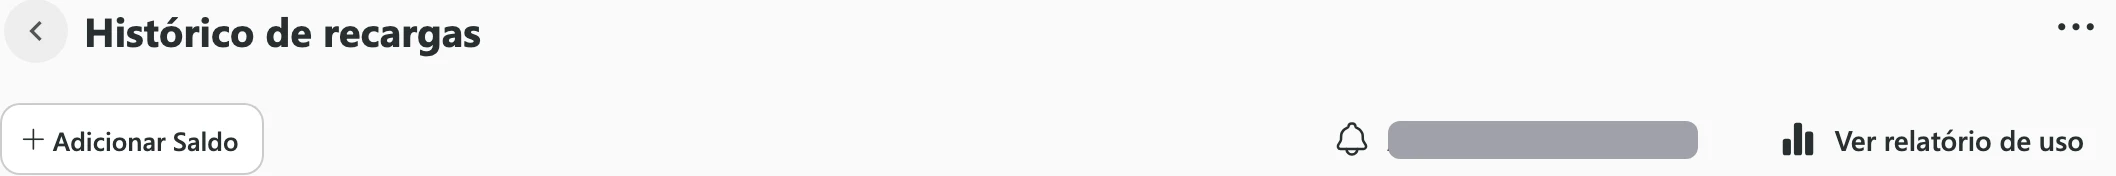
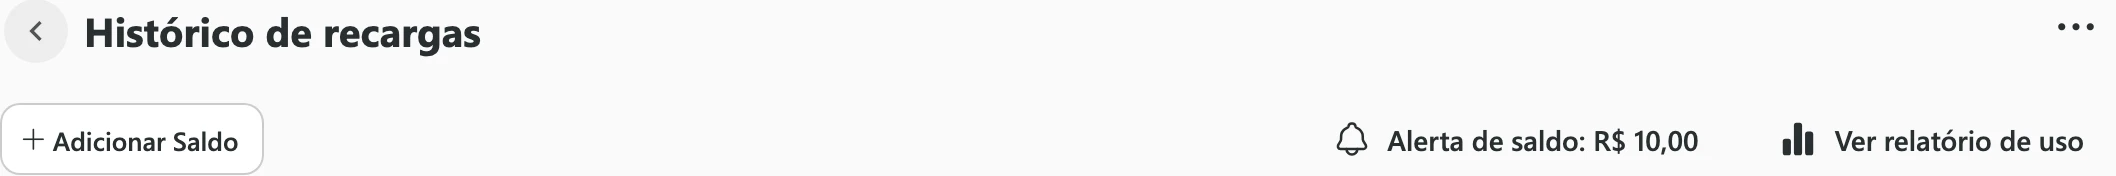
fix(ajuda): correções do conselho (rodada 1) na seção Assinatura
- Botões condicionais: Gerar boleto agora / Pagar agora e Tentar pagar
  novamente só "se aparecer", senão suporte; Mudar plano e Cancelar com
  assinatura PRO não cancelada (inclusive Expirado) e exceção de parceiro.
- Restrições depois da carência limitadas a canais de WhatsApp e Instagram;
  carência sem prometer "funciona normalmente"; exceção de parceiro na
  saída dos canais por QR Code (só na camada llm/).
- Cancelamento encerra as mensalidades que aguardam pagamento; menu "..."
  da fatura condicional e Ver ao passar o mouse; Ver Boleto × Visualizar boleto.
- Irmã LLM reescrita só com fatos (sem diretivas de redação); FAQs com
  links; "proprietário ou alguém com a permissão Assinatura".
- cancelar.mdx sem o Info repetido; regra dos 5/3 dias em faturas com link.
- Prints sem tarja fora do preço do plano; print novo da Carteira;
  mínimo de recarga e padrão do alerta citados.
- Golden: negativo trocado; grupo Administração na posição do esboço.

Origem: web:src/pages/settings/billing/BillingV2.tsx, v2/UpcomingInvoiceAlert.tsx,
v2/retryPayment.helper.ts, AddBalanceModal/index.tsx,
api-v0:server/controllers/NewPaymentController.js,
api-v0:server/services/WorkspacePlatformService.js,
api:src/modules/wallet-alerts/wallet-alerts.helper.ts

Changed region(s): [[0.655, 0.6818, 0.811, 0.9091]]

diff --git a/llm/assinatura/visao-geral.md b/llm/assinatura/visao-geral.md
@@ -21,159 +21,156 @@ codigo:
   - api-v0:server/routes/NewPaymentRoutes.js
   - api-v0:server/modules/scheduler/NewPaymentScheduler.js
   - api-v0:server/modules/scheduler/deleteChannelsScheduler.js
+  - api-v0:server/services/WorkspacePlatformService.js
   - api:src/modules/wallet-alerts/**
 verificado_em: 2026-11-26
 ---
 
-Detalhes de referência das páginas humanas da seção Assinatura ([Assinatura: como o plano é montado](/docs/assinatura/visao-geral), [Assinar ou mudar o plano](/docs/assinatura/assinar-ou-mudar-plano), [Adicionar saldo e créditos de SMS](/docs/assinatura/adicionar-saldo), [Configurar o alerta de saldo](/docs/assinatura/alerta-de-saldo), [Faturas, boletos e nota fiscal](/docs/assinatura/faturas), [Cancelar a assinatura](/docs/assinatura/cancelar) e [Minha assinatura venceu ou o pagamento falhou](/docs/assinatura/assinatura-vencida)).
+
+Detalhes de referência da seção Assinatura. Páginas para pessoas: [Assinatura: como o plano é montado](/docs/assinatura/visao-geral), [Assinar ou mudar o plano](/docs/assinatura/assinar-ou-mudar-plano), [Adicionar saldo e créditos de SMS](/docs/assinatura/adicionar-saldo), [Configurar o alerta de saldo](/docs/assinatura/alerta-de-saldo), [Faturas, boletos e nota fiscal](/docs/assinatura/faturas), [Cancelar a assinatura](/docs/assinatura/cancelar) e [Minha assinatura venceu ou o pagamento falhou](/docs/assinatura/assinatura-vencida).
 
 ## Quem pode acessar e alterar
 
-- **Permissão:** **Assinatura** ("Contratar e alterar planos de assinatura."), na seção **Gerenciamento do Ambiente**. Sem ela, o item **Assinatura** some do menu e abrir a rota redireciona para **Configurações**.
+- **Permissão:** **Assinatura** ("Contratar e alterar planos de assinatura."), na seção **Gerenciamento do Ambiente** das permissões. Sem ela, o item **Assinatura** some do menu e o endereço da página volta para **Configurações**.
 - **Proprietário e papéis padrão:** o proprietário do workspace sempre tem acesso. O papel padrão **Administrador** já vem com a permissão **Assinatura**; **Supervisor** e **Atendente** não.
 - **Busca global:** atalho **Ir para Assinatura**.
-- **Inspeção de parceiro:** parceiro inspecionando um workspace só vê **Assinatura** no modo de inspeção avançado.
-- **Workspaces de parceiro com plano bloqueado:** em alguns workspaces de parceiros, a mudança de plano é feita pelo parceiro e os botões **Mudar plano** / **Assinar um plano** e os valores não aparecem.
+- **Inspeção de parceiro:** o parceiro que inspeciona um workspace só vê **Assinatura** no modo de inspeção avançado.
+- **Plano gerenciado pelo parceiro:** em alguns workspaces de clientes de parceiros, o plano é gerenciado pelo parceiro: os botões **Mudar plano**, **Assinar um plano** e **Cancelar assinatura** e os valores não aparecem.
 
 ## Unidades do plano, mínimos e cobrança
 
-- Não existem planos com nome fixo. A assinatura é montada por unidades na tela **Checkout** / **Alterar Plano**:
+- Não existem planos com nome fixo. A assinatura é montada por unidades na tela **Checkout** (teste grátis ou assinatura cancelada) ou **Alterar Plano** (assinatura **PRO**):
   - **Membros:** licenças de membro ("por membro por mês").
   - **WhatsApp:** linhas de WhatsApp ("por linha por mês"), somando WhatsApp oficial e WhatsApp por QR Code (veja [Canais: conectar e gerenciar](/docs/canais/visao-geral)).
   - **Instagram Direct:** canais de Instagram ("por canal por mês").
-  - **SMS:** créditos de SMS mensais.
-  - **Ligações WhatsApp:** plano opcional de minutos, com botão **Remover plano**.
-- Outros canais (Telegram, e-mail, widget, Facebook, canal customizado) não entram na cobrança do plano.
+  - **SMS:** SMS mensais.
+  - **Ligações WhatsApp:** plano opcional de minutos, com a opção **Remover plano**.
+- Telegram, e-mail, widget, Facebook e canal customizado não entram na cobrança do plano.
 - Na página **Assinatura**, o plano aparece como **PRO** (assinatura paga) ou **Trial** (teste grátis).
-- **Periodicidade:** a contratação pela tela é **mensal** (**Total por mês**). Para plano anual, orientar falar com o comercial. Assinaturas antigas anuais podem aparecer na tela como **Fatura anual**.
-- **Preços:** não informar valores fixos; os preços vêm do servidor e podem variar ou ter cupom. Sempre direcionar para `https://www.kinbox.com.br/pricing/`.
-- **Mínimos ao contratar ou reduzir:** licenças de membro não podem ficar abaixo do total de membros ativos; **WhatsApp** e **Instagram Direct** não podem ficar abaixo dos canais já conectados.
-- **Saldo recorrente:** alguns planos podem exibir "Saldo recorrente de \<valor\> por mês", mas não há cartão para contratá-lo no checkout e hoje esse valor não é creditado automaticamente na carteira todo mês; não prometer recarga mensal automática.
+- **Periodicidade:** a contratação pela tela é mensal (**Total por mês**). Para plano anual, o caminho é falar com o comercial. Assinaturas anuais antigas aparecem com **Fatura anual**.
+- **Preços:** variam e podem ter desconto por cupom. A tabela atual fica na [página de planos da Kinbox](https://www.kinbox.com.br/pricing/).
+- **Mínimos:** as licenças não podem ficar abaixo do número de membros ativos, e **WhatsApp** e **Instagram Direct** não podem ficar abaixo dos canais já conectados.
+- **Saldo recorrente:** o plano pode mostrar a linha "Saldo recorrente de \<valor\> por mês". Esse item não é contratado pela tela. A recarga da carteira é feita em **Adicionar saldo**.
 
 ## Teste grátis
 
-- **Duração e recursos:** **7 dias** corridos, sem cartão de crédito, com **10 licenças** de membro e **1 linha de WhatsApp**.
-- **Restrição de Instagram:** não permite adicionar canais de Instagram — erro `"Você não pode adicionar canais de Instagram em plano trial"`.
-- **Visual na tela:** título **Trial** com selo `"<tempo> restantes"` ou **Expirado**; seção **Faturas** oculta; botão **Assinar um plano**. Na tela de escolha de workspace, exibe o selo **Teste grátis**.
-- **Carência e contagem:** após os 7 dias, vale a mesma **carência de 3 dias** da assinatura paga. A página **Assinatura** conta até **Expira em**, enquanto a faixa no topo conta até **Expira em** + 3 dias (por isso, no 7º dia a página pode mostrar horas restantes enquanto a faixa mostra 3 dias).
+- **Duração e recursos:** 7 dias, sem cartão de crédito, com 10 licenças de membro e 1 linha de WhatsApp.
+- **Instagram:** não dá para adicionar canais de Instagram no teste grátis. Mensagem: "Você não pode adicionar canais de Instagram em plano trial".
+- **Na tela:** título **Trial** com o selo "\<tempo\> restantes" ou **Expirado**; a seção **Faturas** não aparece; o botão é **Assinar um plano**. Na escolha de workspace, o workspace em teste mostra o selo **Teste grátis**.
+- **Carência:** depois dos 7 dias valem os mesmos 3 dias de carência da assinatura paga. A página **Assinatura** conta o tempo até **Expira em**; a faixa no topo do app conta até **Expira em** + 3 dias. Por isso, no último dia do teste, a página pode mostrar horas restantes enquanto a faixa mostra 3 dias.
 
-## Status, avisos, carência e linha do tempo de bloqueio
+## Status, avisos e carência
 
-- **Status do cartão do plano:** **Ativo**, **Expirado** (passou da data em **Expira em**) e **Cancelado**.
-- **Aviso no topo da página Assinatura (PRO ativa com vencimento futuro):**
-  - Cartão de crédito: `"Sua assinatura será renovada automaticamente em <data>, daqui a <tempo>."`
-  - Boleto ou Pix: `"Sua assinatura vence em <data>, daqui a <tempo>."`
-- **Carência de 3 dias:** depois de **Expira em** (tanto no teste grátis quanto no PRO), o navegador e o servidor só bloqueiam após 3 dias.
+- **Status do plano:** **Ativo**, **Expirado** (passou da data em **Expira em**) e **Cancelado**.
+- **Aviso no topo da página Assinatura** (assinatura **PRO** ativa, com vencimento futuro):
+  - cartão de crédito: "Sua assinatura será renovada automaticamente em \<data\>, daqui a \<tempo\>.";
+  - boleto ou Pix: "Sua assinatura vence em \<data\>, daqui a \<tempo\>.".
+- **Carência de 3 dias:** depois de **Expira em**, no teste grátis e na assinatura **PRO**, as restrições de assinatura vencida só começam 3 dias depois. Isso vale também para assinatura cancelada: o que conta é a data em **Expira em**.
 
 ### Faixas no topo do app
 
-O botão da faixa só aparece fora do celular e para quem tem a permissão **Assinatura**.
+O botão da faixa só aparece no computador e para quem tem a permissão **Assinatura** (ou é o proprietário).
 
-| Quando aparece | Texto exato | Botão |
+| Quando aparece | Texto | Botão |
 | --- | --- | --- |
-| Teste grátis, do último dia até o fim da carência | `"Faltam N dias para acabar sua degustação."` | **Assine agora!** |
-| PRO vencida, dentro da carência | `"Sua assinatura expirou. Você tem mais N dias de acesso."` | **Ver fatura** |
-| Depois da carência (teste grátis ou PRO) | `"Sua assinatura expirou. Por favor, selecione um plano nas configurações de assinatura."` | **Ver Plano** |
+| Teste grátis, do último dia até o fim da carência | "Faltam N dias para acabar sua degustação." | **Assine agora!** |
+| Assinatura **PRO** vencida, dentro da carência | "Sua assinatura expirou. Você tem mais N dias de acesso." | **Ver fatura** |
+| Depois da carência (teste grátis ou **PRO**) | "Sua assinatura expirou. Por favor, selecione um plano nas configurações de assinatura." | **Ver Plano** |
 
-A faixa de carência de assinatura PRO fica oculta para membros que têm a restrição que esconde a faixa da carência.
+A faixa da carência da assinatura **PRO** não aparece para membros com a restrição que esconde esse aviso.
 
-### Linha do tempo após o vencimento
+### Linha do tempo depois do vencimento
 
-| Momento | Comportamento |
+| Momento | O que acontece |
 | --- | --- |
-| 5 dias antes de **Expira em** | Fatura gerada automaticamente; e-mail `"Kinbox - Fatura da assinatura"` para os **E-mails de cobrança**; cobrança automática no cartão. |
-| Em **Expira em** sem pagamento | Status muda para **Expirado** na página **Assinatura**; começa a carência. |
-| Até 3 dias depois de **Expira em** | Carência: uso normal do workspace. |
-| Depois de 3 dias de **Expira em** | Campo de mensagem some da **Caixa de entrada**; convidar membro ou adicionar canal de WhatsApp/Instagram falha com `"Assinatura expirada"`. |
-| **7 dias depois de Expira em** | Canais de **WhatsApp por QR Code** (**Express** e **Clássica**) de workspaces que não são de parceiro são desconectados e desativados/excluídos da lista (vale para teste grátis e PRO). O WhatsApp oficial não entra nessa rotina. |
+| 5 dias antes de **Expira em** | A fatura da mensalidade é gerada e o e-mail "Kinbox - Fatura da assinatura" vai para os **E-mails de cobrança**. No cartão, a cobrança é automática. |
+| Em **Expira em**, sem pagamento | O status passa a **Expirado** na página **Assinatura**. Começa a carência. |
+| Até 3 dias depois de **Expira em** | As restrições de assinatura vencida ainda não começam. |
+| Mais de 3 dias depois de **Expira em** | O campo de mensagem some das conversas na **Caixa de entrada**. Convidar membro ou criar canal de WhatsApp ou Instagram mostra "Assinatura expirada". |
+| 7 dias depois de **Expira em** | Os canais de **WhatsApp por QR Code** (**Express** e **Clássica**) são desconectados e saem da lista de canais. Vale para teste grátis e **PRO**, exceto em workspaces de parceiros. O WhatsApp oficial não entra nessa regra. |
 
-- Para voltar a usar um número excluído após regularizar a assinatura, é preciso conectar o canal novamente (veja [Conectar o WhatsApp pelo QR Code](/docs/canais/conectar-whatsapp-app)). Não afirmar se as conversas antigas voltam ou não nesse caso.
-- Não afirmar o que continua funcionando ou para em bots, agentes de IA, campanhas ou recebimento de mensagens quando a assinatura está vencida.
-- **E-mails enviados:** não existe e-mail automático avisando que a assinatura venceu. Os e-mails enviados para os **E-mails de cobrança** são: `"Kinbox - Assinatura realizada com sucesso"`, `"Kinbox - Assinatura atualizada"`, `"Kinbox - Assinatura cancelada"` e `"Kinbox - Fatura da assinatura"`.
+- Para usar de novo um número de WhatsApp por QR Code que saiu da lista, é preciso conectá-lo outra vez (veja [Conectar o WhatsApp pelo QR Code](/docs/canais/conectar-whatsapp-app)).
+- **E-mails:** não há e-mail avisando que a assinatura venceu; o aviso é a faixa no topo do app. Os e-mails que vão para os **E-mails de cobrança** são "Kinbox - Assinatura realizada com sucesso", "Kinbox - Assinatura atualizada", "Kinbox - Assinatura cancelada" e "Kinbox - Fatura da assinatura".
 
 ## Contratar, mudar de plano e forma de pagamento
 
-- **Primeira assinatura (saindo do teste grátis):** muda para **PRO** na hora e gera a primeira fatura com vencimento no mesmo dia. No cartão, a cobrança ocorre na hora e exibe erro se for recusada.
-- **Aumentar o plano (upgrade):** a diferença proporcional aos dias que faltam até o vencimento (**pro-rata**) é debitada do saldo da carteira.
-  - Aviso na tela: `"Para fazer upgrade de plano será necessário pagar o valor de <valor> de pro-rata. O valor será debitado do seu saldo."`
-  - Sem saldo suficiente, clicar em **Alterar Plano** abre **Adicionar Saldo** com `"Necessário colocar <valor> no seu saldo de pro-rata para realizar a alteração de plano."` e o valor mínimo já preenchido.
-  - Pago o Pix, a tela aplica a mudança sozinha (`"Pagamento confirmado. Aplicando a alteração do plano..."` → `"Pagamento confirmado e plano atualizado"`). Se não conseguir aplicar, exibe `"Saldo adicionado, mas não foi possível aplicar a alteração do plano. Refaça a alteração; o saldo já está na sua carteira."`.
-  - A intenção de mudança pendente vinculada ao Pix de recarga vale por até **3 horas**.
-- **Diminuir o plano (downgrade):** não gera crédito nem devolução; o novo valor entra na próxima fatura mensal.
-- **Efeitos de qualquer mudança:** novas quantidades valem na hora; faturas em aberto do período são canceladas; se faltarem 5 dias ou menos para o vencimento, uma nova fatura é gerada na hora; envia o e-mail `"Kinbox - Assinatura atualizada"`.
-- **Dados de cobrança:** **Nome**, **E-mails de cobrança** (separados por vírgula), **Número de telefone**, **Tipo de pessoa** (**Pessoa física** / **Pessoa jurídica**), **CPF** ou **CNPJ**, e **Endereço** (**CEP**, **Rua**, **Número**, **Bairro**, **Estado** — com opção **Estrangeiro** —, **Cidade**, **País**). Só são editáveis no fluxo de checkout.
-- **Trocar forma de pagamento ou cartão:** não existe tela própria só para trocar a forma de pagamento ou os dados de cobrança sem alterar o plano.
-  - Se uma fatura no cartão foi recusada, orientar **Tentar pagar novamente** escolhendo outro cartão (aprovado, passa a ser o cartão das próximas cobranças).
-  - Para trocar a forma de pagamento ou o cartão fora de uma falha de cobrança, orientar falar com o suporte. Não recomendar refazer **Mudar plano** com as mesmas quantidades porque isso cancela a fatura em aberto do período.
+- **Botões:** **Assinar um plano** aparece no teste grátis e com a assinatura cancelada. **Mudar plano** e **Cancelar assinatura** aparecem com a assinatura **PRO** não cancelada, inclusive quando o selo está **Expirado**. Em workspaces com plano gerenciado pelo parceiro, nenhum desses botões aparece.
+- **Primeira assinatura (saindo do teste grátis):** o plano passa para **PRO** na hora e a primeira fatura sai com vencimento no mesmo dia. No cartão, a cobrança é feita na hora e, se o cartão for recusado, a tela mostra o erro.
+- **Aumentar o plano:** a diferença proporcional aos dias que faltam até o vencimento (**pro-rata** na tela) é debitada do saldo da carteira.
+  - Aviso na tela: "Para fazer upgrade de plano será necessário pagar o valor de \<valor\> de pro-rata. O valor será debitado do seu saldo."
+  - Sem saldo suficiente, **Alterar Plano** abre **Adicionar Saldo** com "Necessário colocar \<valor\> no seu saldo de pro-rata para realizar a alteração de plano." e o valor já preenchido.
+  - Pago o Pix, a mudança é aplicada sozinha: "Pagamento confirmado. Aplicando a alteração do plano..." e depois "Pagamento confirmado e plano atualizado". Se a mudança não puder ser aplicada: "Saldo adicionado, mas não foi possível aplicar a alteração do plano. Refaça a alteração; o saldo já está na sua carteira.".
+  - O pedido de mudança ligado a essa recarga vale por até 3 horas.
+- **Diminuir o plano:** não gera crédito nem devolução. O novo valor vale a partir da próxima fatura.
+- **Qualquer mudança de plano:** as novas quantidades valem na hora; as mensalidades que aguardam pagamento são canceladas; se faltarem 5 dias ou menos para o vencimento, sai uma fatura nova na hora; vai o e-mail "Kinbox - Assinatura atualizada".
+- **Dados de cobrança:** **Nome**, **E-mails de cobrança** (separados por vírgula), **Número de telefone**, **Tipo de pessoa** (**Pessoa física** ou **Pessoa jurídica**), **CPF** ou **CNPJ** e **Endereço** (**CEP**, **Rua**, **Número**, **Bairro**, **Estado** — com a opção **Estrangeiro** —, **Cidade** e **País**). São preenchidos no painel **Dados de cobrança**, dentro da contratação.
+- **Trocar a forma de pagamento ou o cartão:** não há uma tela só para isso.
+  - Cartão recusado: se a opção **Tentar pagar novamente** aparecer na fatura, dá para escolher outro cartão; aprovado, ele passa a ser o cartão das próximas cobranças.
+  - Nos outros casos (trocar de boleto para cartão, trocar o cartão sem falha, mudar os dados de cobrança), o caminho é falar com o suporte.
 
-## Mensagens de erro exatas
+## Mensagens de erro
 
-| Mensagem | Quando ocorre |
+| Mensagem | Quando aparece |
 | --- | --- |
-| `"Assinatura expirada"` | Convidar membro ou criar canal de WhatsApp/Instagram depois da carência de 3 dias. |
-| `"Número limite de operadores atingido"` | Adicionar membro acima das licenças contratadas ou reduzir licenças abaixo dos membros ativos (o servidor usa "operadores" no erro, embora a tela use "licenças de membro"). |
-| `"Você precisa remover canais de Whatsapp para prosseguir com a contratação"` | Tentar contratar/reduzir abaixo dos canais de WhatsApp conectados ou adicionar canal acima do plano. |
-| `"Você precisa remover canais de Instagram para prosseguir com a contratação"` | Tentar contratar/reduzir abaixo dos canais de Instagram conectados ou adicionar canal acima do plano. |
-| `"Você não pode adicionar canais de Instagram em plano trial"` | Tentar conectar Instagram durante o teste grátis. |
-| `"O cupom de desconto não pode mais ser reutilizado"` | Qualquer código de cupom que não vale no momento (inclusive código inválido ou expirado). Cupom esgotado também cai nessa mesma mensagem. |
-| `"Dados de cobrança são obrigatórios"` | Tentativa de contratar sem dados de cobrança cadastrados. |
-| `"Obrigatório"`, `"E-mail inválido: <email>"`, `"CEP não encontrado"` | Validação dos campos de **Dados de cobrança**. |
-| Cartão cadastrado antes de uma mudança do sistema de pagamento | O servidor recusa o cartão antigo e pede para cadastrá-lo novamente (nunca citar nome de gateway). |
-| Limite de tentativas de contratar | O servidor aceita no máximo **5 tentativas a cada 5 minutos** por IP (retorna erro de limite de requisições). |
+| "Assinatura expirada" | Convidar membro ou criar canal de WhatsApp ou Instagram mais de 3 dias depois de **Expira em**. |
+| "Número limite de operadores atingido" | Convidar membro quando todas as licenças estão em uso, ou contratar menos licenças que os membros ativos. A mensagem diz "operadores", mas se refere às licenças de membro. |
+| "Você precisa remover canais de Whatsapp para prosseguir com a contratação" | Criar canal de WhatsApp acima das linhas do plano, ou contratar menos linhas que os canais conectados. |
+| "Você precisa remover canais de Instagram para prosseguir com a contratação" | O mesmo, para Instagram. |
+| "Você não pode adicionar canais de Instagram em plano trial" | Conectar Instagram no teste grátis. |
+| "O cupom de desconto não pode mais ser reutilizado" | Qualquer código de cupom que não vale no momento, inclusive digitado errado, expirado ou esgotado. |
+| "Dados de cobrança são obrigatórios" | Contratar sem dados de cobrança. |
+| "Obrigatório", "E-mail inválido: \<e-mail\>", "CEP não encontrado" | Campos do painel **Dados de cobrança**. |
+| Cartão recusado por ter sido cadastrado em outro sistema de pagamento | A mensagem pede para cadastrar o cartão de novo. |
+| Muitas tentativas seguidas | Muitas tentativas seguidas de contratar são recusadas por alguns minutos. |
 
-## Faturas, segunda via, nota fiscal e nova tentativa no cartão
+## Faturas
 
-- **Escopo:** a seção **Faturas** lista apenas faturas de mensalidade (as 3 mais recentes na página **Assinatura**; lista completa em **Ver tudo** com abas **Tudo**, **Pago**, **Não pago** e busca por ID). Não aparece no teste grátis.
-- **Status:** **Pago**, **Não pago**, **Falha ao pagar** e **Cancelado**. Quando a assinatura está cancelada, toda fatura não paga aparece como **Cancelado**.
-- **Detalhe da falha:** clicar em **Falha ao pagar** abre a janela com `"Erro retornado ao gerar a cobrança:"` e o motivo, ou `"Não foi possível identificar a mensagem de erro desta cobrança."`.
-- **Ações do menu `...`:** **Ver fatura** (comprovante imprimível em nova aba), **Ver Boleto**, **Visualizar boleto**, **Copiar código do boleto**, **Ver QR code**, **Baixar nota fiscal**, **Tentar pagar novamente**.
-- **Geração e vencimento:** gerada automaticamente **5 dias** antes de **Expira em** para assinaturas **PRO** ativas. Ao pagar, **Expira em** avança 1 mês contado do vencimento anterior (não da data do pagamento).
-- **Vencimento do Pix da mensalidade:** a fatura recorrente no Pix vence **6 dias depois** do vencimento da assinatura. Como os bloqueios começam **3 dias depois** do vencimento, quem paga perto da data de vencimento do Pix fica até 3 dias sem conseguir responder conversas.
-- **Geração antecipada (**Gerar boleto agora** / **Pagar agora**):** disponível apenas para assinatura ativa, boleto ou Pix, e período atual. Mensagens de recusa do servidor:
-  - `"Geração antecipada disponível apenas para assinaturas ativas"`
-  - `"Geração antecipada disponível apenas para boleto e Pix"`
-  - `"Já existe uma fatura em aberto ou paga para este período"`
-- **Nova tentativa no cartão (**Tentar pagar novamente** / **Pagar novamente**):**
-  - A Kinbox não tenta cobrar de novo automaticamente um cartão que falhou.
-  - Só aparece quando a fatura é de mensalidade, está com **Falha ao pagar**, é a mais recente, pertence ao período atual e a assinatura **PRO** está ativa no cartão.
-  - O cartão atual não pode ser excluído dentro dessa janela. Aprovado, o cartão escolhido vira o cartão das próximas cobranças.
-  - Ao enviar: `"Pagamento enviado. A confirmação pode levar alguns instantes."`. A fatura antiga permanece como **Falha ao pagar** no histórico e uma nova fatura entra na lista.
-  - Limite: **5 tentativas a cada 5 minutos** por workspace.
-  - Mensagens de erro: `"Não foi possível tentar o pagamento. Tente novamente em alguns minutos."`, `"Não foi possível processar o pagamento com o cartão informado"`, `"Muitas tentativas de pagamento, tente novamente em alguns minutos"`.
-- **Nota fiscal:** a emissão automática está desligada no sistema. **Baixar nota fiscal** só aparece quando o PDF já existe na fatura. Se não aparecer, orientar falar com o suporte para pedir a nota fiscal (sem prometer prazo nem emissão automática).
+- **Onde:** a seção **Faturas** da página **Assinatura** mostra as 3 mensalidades mais recentes. **Ver tudo** abre a lista completa, com as abas **Tudo**, **Pago** e **Não pago** e a busca por ID. Não aparece no teste grátis. Recargas de saldo ficam no **Histórico de recargas**; compras de SMS, no **Histórico SMS**.
+- **Status:** **Pago**, **Não pago**, **Falha ao pagar** e **Cancelado**. Enquanto a assinatura está cancelada, toda fatura não paga aparece como **Cancelado**.
+- **Erro do cartão:** clicar em **Falha ao pagar** abre a janela com "Erro retornado ao gerar a cobrança:" e o motivo, ou "Não foi possível identificar a mensagem de erro desta cobrança.".
+- **Abrir a fatura:** **Ver** aparece ao passar o mouse na linha da fatura, na página **Assinatura**; na lista de **Faturas**, basta clicar na linha. A fatura abre numa aba nova e serve como comprovante.
+- **Menu ...:** só aparece quando a fatura tem boleto, Pix, nota fiscal ou a opção de nova tentativa. Opções possíveis: **Ver fatura**, **Ver Boleto** (abre o boleto; quando o boleto ainda não foi gerado, a opção é **Visualizar boleto**), **Copiar código do boleto**, **Ver QR code**, **Baixar nota fiscal** e **Tentar pagar novamente**. Fatura paga no cartão e sem nota fiscal não tem esse menu, só **Ver**.
+- **Nota fiscal:** a opção **Baixar nota fiscal** aparece na fatura quando o PDF estiver disponível. Quando não aparecer, fale com o suporte para pedir a nota fiscal.
+- **Geração:** a mensalidade é gerada 5 dias antes de **Expira em**, para assinatura **PRO** ativa. Paga a fatura, **Expira em** avança um mês a partir do vencimento anterior, não da data do pagamento.
+- **Vencimento do Pix da mensalidade:** 6 dias depois do vencimento da assinatura. As restrições de assinatura vencida começam 3 dias depois do vencimento, então pagar o Pix perto da data de vencimento dele pode deixar o workspace alguns dias sem responder conversas.
+- **Gerar boleto agora** / **Pagar agora:** aparecem na seção **Faturas** só quando a assinatura **PRO** está ativa, no boleto ou no Pix, no período atual da assinatura e sem fatura desse período paga ou aguardando pagamento. Respostas possíveis: "Geração antecipada disponível apenas para assinaturas ativas", "Geração antecipada disponível apenas para boleto e Pix", "Já existe uma fatura em aberto ou paga para este período". Se o botão não aparecer e a fatura não estiver na lista, o caminho é falar com o suporte.
+- **Tentar pagar novamente** / **Pagar novamente:**
+  - A Kinbox não cobra de novo sozinha um cartão recusado.
+  - A opção só aparece na mensalidade com **Falha ao pagar** mais recente do período atual, com a assinatura **PRO** ativa no cartão. Se não aparecer, o caminho é falar com o suporte.
+  - Na janela, o cartão atual não pode ser excluído. Aprovado, o cartão escolhido passa a ser o das próximas cobranças.
+  - Ao enviar: "Pagamento enviado. A confirmação pode levar alguns instantes.". A fatura recusada continua na lista como **Falha ao pagar** e a nova entra na lista.
+  - Até 5 tentativas a cada 5 minutos por workspace. Mensagens: "Não foi possível tentar o pagamento. Tente novamente em alguns minutos.", "Não foi possível processar o pagamento com o cartão informado", "Muitas tentativas de pagamento, tente novamente em alguns minutos".
 
-## Carteira: saldo em reais e créditos de SMS
+## Carteira: saldo e créditos de SMS
 
-- **Dois saldos separados:** **Saldo disponível** (reais) e **Créditos de SMS** são comprados à parte, ambos **apenas por Pix**. O saldo da carteira não compra créditos de SMS pela tela (mesmo que o texto de ajuda do **Histórico de recargas** diga o contrário — não repetir essa frase).
-- **Recarga de saldo:** mínimo de **R$ 5** na tela em **Valor a adicionar**. Na janela **Pagar com Pix**, a tela verifica o pagamento a cada **10 segundos** enquanto aberta; ao confirmar, exibe `"Pagamento confirmado. Crédito adicionado."`.
-- **Histórico de recargas:** status **Pago** e **Aguardando pagamento**; permite reabrir o QR Code na linha; exportação em CSV/XLSX no menu **...** → **Exportar**; botão **Ver relatório de uso** (só com permissão de relatórios).
-- **Extrato do saldo:** página de créditos e débitos com filtros **Criado entre** e **Tipo** (**Crédito**/**Débito**). No layout atual, o atalho **Comprar créditos** do copiloto (quando mostra **Seus créditos acabaram**) abre esse extrato, onde não há botão de adicionar saldo.
-- **Créditos de SMS:** pacotes de 1 mil a 1 milhão (sem citar preços). Depois do Pix pago, o pedido fica em `"Aguardando aprovação"` no servidor (**Pago, aguardando liberação** no **Histórico SMS**) até a transferência dos créditos, o que pode levar até **1 dia útil** (para liberação imediata ou problema, orientar falar com o suporte).
-  - Status no **Histórico SMS:** **Pago**, **Pago, aguardando liberação**, **Aguardando pagamento**.
-  - Mensagens de erro: `"O valor mínimo da compra é R$ 5,00"` e `"Compra de novas SMS's está desabilitada no momento"`.
-- Cada workspace tem a própria carteira. Não afirmar validade/expiração do saldo nem reembolso ao cancelar.
+- **Dois saldos separados:** **Saldo disponível** (reais) e **Créditos de SMS** são comprados à parte, os dois só por Pix. O saldo da carteira não compra créditos de SMS.
+- **Recarga de saldo:** **Valor a adicionar** começa preenchido com R$ 500,00 e aceita a partir de R$ 5. Na janela **Pagar com Pix**, a tela confere o pagamento a cada 10 segundos enquanto está aberta; ao confirmar: "Pagamento confirmado. Crédito adicionado.".
+- **Histórico de recargas:** status **Pago** e **Aguardando pagamento**; o botão da linha reabre o QR Code; **...** → **Exportar** (CSV ou XLSX); **Ver relatório de uso** para quem tem permissão de relatórios.
+- **Extrato do saldo:** créditos e débitos com os filtros **Criado entre** e **Tipo** (**Crédito** ou **Débito**). O atalho **Comprar créditos** do copiloto, quando aparece **Seus créditos acabaram**, abre esse extrato. Para recarregar, use **Adicionar saldo** em **Configurações** → **Assinatura**.
+- **Créditos de SMS:** pacotes de 1 mil a 1 milhão de créditos. Depois do Pix pago, a compra aparece como **Pago, aguardando liberação** no **Histórico SMS** até os créditos entrarem, o que pode levar até 1 dia útil. Para liberação imediata ou problema, fale com o suporte. Status: **Pago**, **Pago, aguardando liberação**, **Aguardando pagamento**. Mensagens: "O valor mínimo da compra é R$ 5,00" e "Compra de novas SMS's está desabilitada no momento".
+- Cada workspace tem a própria carteira.
 
 ## Alerta de saldo baixo
 
-- **Onde fica:** topo do **Histórico de recargas** (não existe botão na página **Assinatura**).
-- **Valores:** padrão de **R$ 10** quando nunca foi configurado; `0` desativa.
-- **Permissão:** salvar exige a permissão **Assinatura** ou ser o proprietário (erro na API: `"Você não tem permissão para gerenciar o financeiro"`).
-- **Frequência de checagem:** roda a cada **30 minutos** (minutos 15 e 45 de cada hora).
-- **Condição dupla para avisar:** o saldo precisa estar **abaixo** do limite configurado **e**, no consumo médio diário dos últimos **14 dias** (gastos da carteira do próprio workspace), o saldo precisa acabar em até **30 dias**. Workspace sem consumo nos últimos 14 dias não recebe aviso, mesmo abaixo do limite.
-- **Um aviso por vez:** depois de disparar, só avisa de novo quando o saldo voltar a ficar igual ou acima do limite (após recarga) e cair novamente. Alterar o limite não reenvia um aviso já disparado.
-- **Quem recebe e como:** proprietário do workspace e membros ativos com a permissão **Assinatura**, por notificação no app (título `"Saldo baixo"`, abre **Assinatura**) e por e-mail enviado ao e-mail de login de cada membro (não aos **E-mails de cobrança**), com assunto `"Saldo baixo no ambiente <nome>"`.
-- **Texto do aviso:** `"Seu saldo está abaixo de <limite> (saldo atual: <saldo>)."` + `"No seu consumo médio diário, ele dura cerca de N dias."` quando há previsão.
-- **Franquia de ligações:** o mesmo canal (notificação e e-mail) avisa quando a franquia do plano de ligações atinge 80% e 100%.
+- **Onde fica:** no topo do **Histórico de recargas** (clique em **Saldo disponível**), botão **Configurar alerta de saldo** ou **Alerta de saldo: \<valor\>**.
+- **Valores:** R$ 10 por padrão quando nunca foi configurado; 0 desativa.
+- **Permissão:** salvar exige a permissão **Assinatura** ou ser o proprietário. Sem ela: "Você não tem permissão para gerenciar o financeiro".
+- **Frequência:** a Kinbox verifica o saldo a cada 30 minutos.
+- **Quando avisa:** o saldo está abaixo do limite **e**, no consumo médio diário dos últimos 14 dias, acaba em até 30 dias. Workspace sem consumo nos últimos 14 dias não recebe aviso, mesmo abaixo do limite.
+- **Um aviso por vez:** depois de avisar, só avisa de novo quando o saldo volta a ficar igual ou acima do limite (recarga) e cai outra vez. Mudar o limite não reenvia um aviso já enviado.
+- **Quem recebe e como:** o proprietário e os membros ativos com a permissão **Assinatura**, por notificação no app (título "Saldo baixo", abre **Assinatura**) e por e-mail no e-mail de login de cada um (não nos **E-mails de cobrança**), com o assunto "Saldo baixo no ambiente \<nome\>".
+- **Texto do aviso:** "Seu saldo está abaixo de \<limite\> (saldo atual: \<saldo\>)." e, quando há previsão, "No seu consumo médio diário, ele dura cerca de N dias.".
+- **Franquia de ligações:** o mesmo aviso (notificação e e-mail) sai quando a franquia do plano de ligações chega a 80% e a 100%.
 
 ## Cancelamento
 
-- **Quando o botão aparece:** apenas para assinatura **PRO** ativa, para quem tem a permissão **Assinatura** (ou é o proprietário) e quando a alteração de plano não está bloqueada por parceiro.
-- **Confirmação:** janela **Cancelar plano** (`"Tem certeza que deseja cancelar seu plano atual?"`) → `"Plano cancelado com sucesso."`.
-- **Efeitos no servidor:**
-  - Status muda para **Cancelado** sem alterar a data em **Expira em**.
-  - Faturas em aberto são canceladas (na tela, toda fatura não paga passa a aparecer como **Cancelado**).
-  - Nenhuma nova fatura mensal nem cobrança no cartão é gerada.
-  - E-mail `"Kinbox - Assinatura cancelada"` enviado para os **E-mails de cobrança**.
-- **Acesso após cancelar:** a página **Assinatura** exibe `"Sua assinatura foi cancelada. Atualize seu plano para voltar a usar o sistema."`, mas tanto o navegador quanto o servidor conferem apenas a data de **Expira em** + **3 dias** de carência (não olham o status cancelado). Depois desse prazo, valem os bloqueios de vencimento, inclusive a exclusão dos canais de WhatsApp por QR Code 7 dias depois do vencimento.
-- **Dados e carteira:** cancelar não exclui o workspace nem apaga os dados, e o fluxo de cancelamento não altera saldo da carteira nem créditos de SMS (não prometer reembolso nem perda).
-- **Reativar:** com o plano cancelado, o botão **Assinar um plano** fica disponível na página **Assinatura**.
+- **Botão:** **Cancelar assinatura** aparece com a assinatura **PRO** não cancelada (inclusive com o selo **Expirado**), para quem tem a permissão **Assinatura** ou é o proprietário, exceto quando o plano é gerenciado pelo parceiro.
+- **Confirmação:** janela **Cancelar plano** ("Tem certeza que deseja cancelar seu plano atual?") e depois "Plano cancelado com sucesso.".
+- **Efeitos:**
+  - o status passa a **Cancelado**, e a data em **Expira em** não muda;
+  - as mensalidades que aguardam pagamento são canceladas, e enquanto a assinatura está cancelada toda fatura não paga aparece como **Cancelado**;
+  - não sai mais fatura de mensalidade nem cobrança no cartão;
+  - vai o e-mail "Kinbox - Assinatura cancelada" para os **E-mails de cobrança**.
+- **Acesso:** a página mostra "Sua assinatura foi cancelada. Atualize seu plano para voltar a usar o sistema.". O acesso continua até **Expira em** + 3 dias de carência, mesmo com a assinatura cancelada. Depois, valem as restrições da linha do tempo acima, inclusive a saída dos canais de WhatsApp por QR Code 7 dias depois de **Expira em**.
+- **Dados e carteira:** cancelar não exclui o workspace nem os dados, e não muda o saldo da carteira nem os créditos de SMS.
+- **Voltar a assinar:** com a assinatura cancelada, a página mostra **Assinar um plano**.

diff --git a/llm/faq/assinatura-trocar-forma-de-pagamento.md b/llm/faq/assinatura-trocar-forma-de-pagamento.md
@@ -25,10 +25,10 @@ Como troco o cartão ou a forma de pagamento?
 
 ## Resposta
 
-Para trocar a forma de pagamento (por exemplo, de boleto ou Pix para cartão de crédito) ou mudar o cartão das próximas cobranças fora de uma mudança de plano, fale com o suporte; se a cobrança no cartão falhou em uma fatura, você pode escolher outro cartão direto pela fatura usando **Tentar pagar novamente**.
+Para trocar a forma de pagamento (por exemplo, de boleto ou Pix para cartão de crédito) ou mudar o cartão das próximas cobranças fora de uma mudança de plano, fale com o suporte. Se a cobrança no cartão falhou e a opção **Tentar pagar novamente** aparecer na fatura, você pode escolher outro cartão por ali.
 
-- **Cartão recusado em uma fatura:** vá em **Configurações** → **Assinatura** → **Faturas**, abra o menu **...** da fatura com status **Falha ao pagar** (a mais recente do período atual) e clique em **Tentar pagar novamente**. Escolha outro cartão salvo ou clique em **Adicionar novo cartão** e confirme o pagamento. Se for aprovado, esse cartão passa a ser usado automaticamente nas próximas cobranças.
-- **Trocar a forma de pagamento ou os dados de cobrança fora de uma falha:** não existe uma tela própria na Kinbox para alterar só o método de pagamento ou os dados de cobrança sem alterar o plano, então fale com o suporte para fazer a troca com segurança.
+- **Cartão recusado em uma fatura:** vá em **Configurações** → **Assinatura** → **Faturas**, abra o menu **...** da fatura com status **Falha ao pagar** e, se a opção aparecer, clique em **Tentar pagar novamente**. Ela só aparece na mensalidade recusada mais recente do período atual, com a assinatura **PRO** ativa no cartão. Escolha outro cartão salvo ou clique em **Adicionar novo cartão** e confirme o pagamento. Se for aprovado, esse cartão passa a ser usado nas próximas cobranças. Se a opção não aparecer, fale com o suporte.
+- **Trocar a forma de pagamento ou os dados de cobrança fora de uma falha:** não há uma tela própria para trocar só a forma de pagamento ou os dados de cobrança. Fale com o suporte.
 
 Veja mais em [Faturas, boletos e nota fiscal](/docs/assinatura/faturas) e [Assinar ou mudar o plano](/docs/assinatura/assinar-ou-mudar-plano).
 

diff --git a/llm/faq/assinatura-o-que-acontece-se-atrasar.md b/llm/faq/assinatura-o-que-acontece-se-atrasar.md
@@ -26,12 +26,12 @@ O que acontece se eu atrasar o pagamento?
 
 ## Resposta
 
-Você tem **3 dias** de carência depois do vencimento com acesso normal; passado esse prazo, o campo de mensagem some das conversas e não dá para adicionar membros nem canais, e **7 dias** depois do vencimento os canais de WhatsApp por QR Code são desconectados e excluídos da lista.
+Depois do vencimento há **3 dias** de carência; passado esse prazo, o campo de mensagem some das conversas e não dá para convidar membros nem criar canais de WhatsApp ou Instagram. **7 dias** depois do vencimento, os canais de WhatsApp por QR Code são desconectados e saem da lista de canais (exceto em workspaces de parceiros).
 
-- Pagar a fatura em **Configurações** → **Assinatura** → **Faturas** atualiza a data em **Expira em** e devolve o acesso ao workspace.
-- A Kinbox não envia e-mail automático avisando que a assinatura venceu; o aviso aparece na faixa no topo do app.
-- Quando a assinatura é no cartão de crédito e a cobrança falha, a Kinbox não tenta cobrar de novo sozinha — use **Tentar pagar novamente** na fatura.
-- A exclusão após 7 dias vale apenas para canais de WhatsApp por QR Code (o WhatsApp oficial não entra nessa rotina). Depois de regularizar o pagamento, é preciso conectar o número novamente em [Conectar o WhatsApp pelo QR Code](/docs/canais/conectar-whatsapp-app).
+- Pagar a fatura em **Configurações** → **Assinatura** → **Faturas** atualiza a data em **Expira em** e tira essas restrições.
+- A Kinbox não envia e-mail avisando que a assinatura venceu; o aviso aparece na faixa no topo do app.
+- Se a cobrança no cartão falhou, a Kinbox não tenta cobrar de novo sozinha. Se a opção **Tentar pagar novamente** aparecer na fatura, use-a; se não aparecer, fale com o suporte.
+- A saída da lista depois de 7 dias vale só para canais de WhatsApp por QR Code; o WhatsApp oficial não entra nessa regra. Depois de regularizar o pagamento, conecte o número de novo em [Conectar o WhatsApp pelo QR Code](/docs/canais/conectar-whatsapp-app).
 
 Veja como regularizar em [Minha assinatura venceu ou o pagamento falhou](/docs/assinatura/assinatura-vencida).
 
